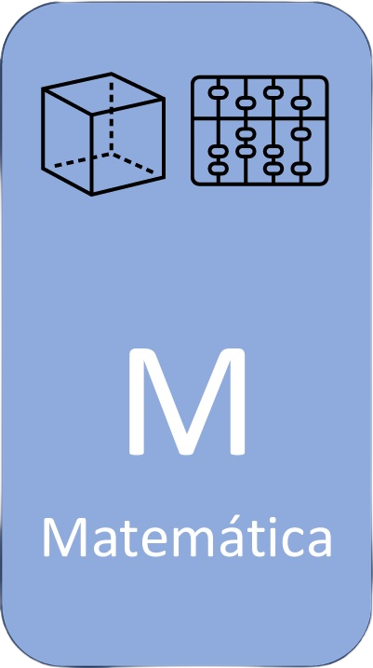
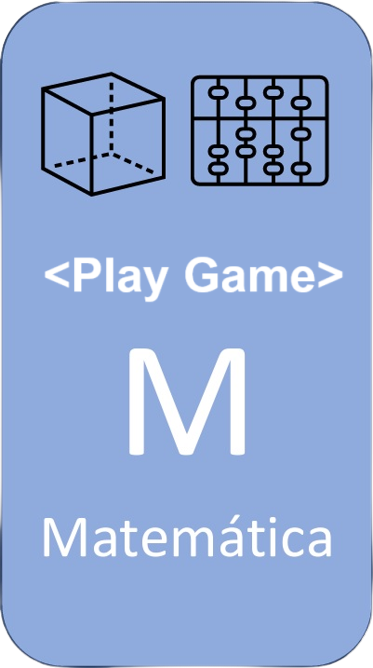
atualização game

Changed region(s): [[0.118, 0.3593, 0.9142, 0.4491]]

diff --git a/game/game.html b/game/game.html
@@ -3,7 +3,7 @@
   <head>
     <meta charset="utf-8">
     <meta http-equiv="X-UA-Compatible" content="IE=edge">
-    <title>Aulas || Nós multímidia</title>
+    <title>Game || Nós multímidia</title>
     <meta name="viewport" content="width=device-width, initial-scale=1">
     <link rel="stylesheet" href="game.css">
     <link rel="stylesheet" href="../menu.css">
@@ -54,11 +54,84 @@
         <h1>Universidade Federal do ABC</h1>
 
         <div class="holder">
-            <div class="grow_1 basis_auto"><img src = "game_pic/s_steam.png"alt = "s_steam"></div>
-            <div class="grow_1 basis_auto"><img src = "game_pic/t_steam.png"alt = "t_steam"></div>
-            <div class="grow_1 basis_auto"><img src = "game_pic/e_steam.png"alt = "e_steam"></div>
-            <div class="grow_1 basis_auto"><img src = "game_pic/a_steam.png"alt = "a_steam"></div>
-            <div class="grow_1 basis_auto"><a href="jogo.html"><img src = "game_pic/m_steam.png"alt = "m_steam"></a></div>
+            <div class="grow_1 basis_auto"><a href=" "><img src = "game_pic/s_steam.png"alt = "s_steam"></a></div>
+            <div class="grow_1 basis_auto"><a href=" "><img src = "game_pic/t_steam.png"alt = "t_steam"></a></div>
+            <div class="grow_1 basis_auto"><a href=" "><img src = "game_pic/e_steam.png"alt = "e_steam"></a></div>
+            <div class="grow_1 basis_auto"><a href=" "><img src = "game_pic/a_steam.png"alt = "a_steam"></a></div>
+            <div class="grow_1 basis_auto"><a href="jogo.html" target="_blank"><img src = "game_pic/m_steam.png"alt = "m_steam"></a></div>
+        </div>
+
+        <div class="text">
+            <h2><span style="color: rgb(32, 163, 3);">Algumas competências específicas de Ciências da Natureza para o Ensino Fundamental</span></h2>
+            <p align="justify">
+                &nbsp;&nbsp;&nbsp; Analisar, compreender e explicar características, fenômenos e processos relativos ao mundo natural, social e tecnológico (incluindo o digital), como também as relações que se estabelecem entre eles, exercitando a curiosidade para fazer perguntas, buscar respostas e criar soluções (inclusive tecnológicas) com base nos conhecimentos das Ciências da Natureza.
+            </p>
+            <p align="justify">
+                &nbsp;&nbsp;&nbsp;Avaliar aplicações e implicações políticas, socioambientais e culturais da ciência e de suas tecnologias para propor alternativas aos desafios do mundo contemporâneo, incluindo aqueles relativos ao mundo do trabalho.
+            </p>
+            <p align="justify">
+                &nbsp;&nbsp;&nbsp;Construir argumentos com base em dados, evidências e informações confiáveis e negociar e defender ideias e pontos de vista que promovam a consciência socioambiental e o respeito a si próprio e ao outro, acolhendo e valorizando a diversidade de indivíduos e de grupos sociais, sem preconceitos de qualquer natureza.
+            </p>
+
+            <br>
+            <h2><span style="color: rgb(32, 163, 3);">Competências específicas na área de Ciências da Natureza no Ensino Médio</span></h2>
+            <p align="justify">
+                &nbsp;&nbsp;&nbsp; Analisar fenômenos naturais e processos tecnológicos, com base nas interações e relações entre matéria e energia, para propor ações individuais e coletivas que aperfeiçoem processos produtivos, minimizem impactos socioambientais e melhorem as condições de vida em âmbito local, regional e global.
+            </p>
+            <p align="justify">
+                &nbsp;&nbsp;&nbsp; Analisar e utilizar interpretações sobre a dinâmica da Vida, da Terra e do Cosmos para elaborar argumentos, realizar previsões sobre o funcionamento e a evolução dos seres vivos e do Universo, e fundamentar e defender decisões éticas e responsáveis.
+            </p>
+            <p align="justify">
+                &nbsp;&nbsp;&nbsp; Investigar situações-problema e avaliar aplicações do conhecimento científico e tecnológico e suas implicações no mundo, utilizando procedimentos e linguagens próprios das Ciências da Natureza, para propor soluções que considerem demandas locais, regionais e/ou globais, e comunicar suas descobertas e conclusões a públicos variados, em diversos contextos e por meio de diferentes mídias e tecnologias digitais de informação e comunicação (TDIC).
+            </p>
+
+            <br>
+            <h2><span style="color: rgb(219, 18, 238);">Algumas competências específicas de Artes para o Ensino Fundamental</span></h2>
+            <p align="justify">
+                &nbsp;&nbsp;&nbsp; Compreender as relações entre as linguagens da Arte e suas práticas integradas, inclusive aquelas possibilitadas pelo uso das novas tecnologias de informação e comunicação, pelo cinema e pelo audiovisual, nas condições particulares de produção, na prática de cada linguagem e nas suas articulações.
+            </p>
+            <p align="justify">
+                &nbsp;&nbsp;&nbsp; Experienciar a ludicidade, a percepção, a expressividade e a imaginação, ressignificando espaços da escola e de fora dela no âmbito da Arte.
+            </p>
+            <p align="justify">
+                &nbsp;&nbsp;&nbsp; Analisar e valorizar o patrimônio artístico nacional e internacional, material e imaterial, com suas histórias e diferentes visões de mundo.
+            </p>
+
+            <br>
+            <h2><span style="color: rgb(219, 18, 238);">Algumas competências específicas com Artes para o Ensino Médio</span></h2>
+            <p align="justify">
+                &nbsp;&nbsp;&nbsp; Apreciar esteticamente as mais diversas produções artísticas e culturais, considerando suas características locais, regionais e globais, e mobilizar seus conhecimentos sobre as linguagens artísticas para dar significado e (re)construir produções autorais individuais e coletivas, exercendo protagonismo de maneira crítica e criativa, com respeito à diversidade de saberes, identidades e culturas.
+            </p>
+
+            <br>
+            <h2><span style="color: rgb(132, 212, 255);">Algumas competências específicas de Matemática para o Ensino Fundamental</span></h2>
+            <p align="justify">
+                &nbsp;&nbsp;&nbsp; Desenvolver o raciocínio lógico, o espírito de investigação e a capacidade de produzir argumentos convincentes, recorrendo aos conhecimentos matemáticos para compreender e atuar no mundo.
+            </p>
+            <p align="justify">
+                &nbsp;&nbsp;&nbsp; Fazer observações sistemáticas de aspectos quantitativos e qualitativos presentes nas práticas sociais e culturais, de modo a investigar, organizar, representar e comunicar informações relevantes, para interpretá-las e avaliá-las crítica e eticamente, produzindo argumentos convincentes.
+            </p>
+            <p align="justify">
+                &nbsp;&nbsp;&nbsp; Utilizar processos e ferramentas matemáticas, inclusive tecnologias digitais disponíveis, para modelar e resolver problemas cotidianos, sociais e de outras áreas de conhecimento, validando estratégias e resultados.
+            </p>
+            <p align="justify">
+                &nbsp;&nbsp;&nbsp; Enfrentar situações-problema em múltiplos contextos, incluindo-se situações imaginadas, não diretamente relacionadas com o aspecto prático-utilitário, expressar suas respostas e sintetizar conclusões, utilizando diferentes registros e linguagens (gráficos, tabelas, esquemas, além de texto escrito na língua materna e outras linguagens para descrever algoritmos, como fluxogramas, e dados).
+            </p>
+
+            <br>
+            <h2><span style="color: rgb(132, 212, 255);">Algumas competências específicas de Matemática para o Ensino Médio</span></h2>
+            <p align="justify">
+                &nbsp;&nbsp;&nbsp; Propor ou participar de ações para investigar desafios do mundo contemporâneo e tomar decisões éticas e socialmente responsáveis, com base na análise de problemas sociais, como os voltados a situações de saúde, sustentabilidade, das implicações da tecnologia no mundo do trabalho, entre outros, mobilizando e articulando conceitos, procedimentos e linguagens próprios da Matemática.
+            </p>
+            <p align="justify">
+                &nbsp;&nbsp;&nbsp; Utilizar estratégias, conceitos, definições e procedimentos matemáticos para interpretar, construir modelos e resolver problemas em diversos contextos, analisando a plausibilidade dos resultados e a adequação das soluções propostas, de modo a construir argumentação consistente.
+            </p>
+            <p align="justify">
+                &nbsp;&nbsp;&nbsp; Compreender e utilizar, com flexibilidade e precisão, diferentes registros de representação matemáticos (algébrico, geométrico, estatístico, computacional etc.), na busca de solução e comunicação de resultados de problemas.
+            </p>
+
+            <br>
+            <h3>Fonte: <a href="http://basenacionalcomum.mec.gov.br/>">BNCC</a></h3>
         </div>
 
     </div>

diff --git a/game/game.css b/game/game.css
@@ -71,7 +71,7 @@ body{
 }
 
 .holder div {     
-    /*margin: 8px 4px;*/
+    margin: auto;
     height: auto;
     width: auto;
     font-size: 1em;
@@ -88,11 +88,59 @@ img{
     width: auto;
 }
 
-
 h1 {
-    font-family: "Arial", cursive;
+    font-family: "Dancing Script", cursive;
     text-align: center;
     font-size: 64px;
     color: #fff;
     margin: 0 0 50px;
+}
+
+h2{
+    text-align: center;
+}
+
+h3{
+    text-align: right;
+    font-size: 15px;
+}
+
+.text {
+    margin-top: 50px;
+    font-family: sans-serif;
+    color: #fff;
+    font-size: 20px;
+    box-shadow: 15px 15px 25px 0px #cacaca;
+    padding: 10px;
+    border-radius: 20px;
+    height: auto;
+}
+
+.text a{
+    text-decoration: none;
+}
+
+.holder img{
+    display: block;
+    border-radius: 5%;
+    --s: 250px;   /* the size of the image */
+    --b: 15px;     /* the border thickness*/
+    --g: 1px;    /* the gap */
+
+    width: var(--s);
+    aspect-ratio: 1;
+    object-fit: cover;
+    object-position: 0 0%;
+    outline: calc(var(--s)/2) solid #0000;
+    outline-offset: calc(var(--s)/-2);
+    transition: .3s;
+    overflow: hidden;
+    transition: all 0.5s ease-in-out;
+    filter: grayscale(70%);
+
+    &:hover {
+        outline: var(--b) solid #ffffff;
+        outline-offset: var(--g);
+        filter: grayscale(0%);
+    }
 }

diff --git a/game/jogo.html b/game/jogo.html
@@ -3,7 +3,7 @@
   <head>
     <meta charset="utf-8">
     <meta http-equiv="X-UA-Compatible" content="IE=edge">
-    <title>Aulas || Nós multímidia</title>
+    <title>Jogo || Nós multímidia</title>
     <meta name="viewport" content="width=device-width, initial-scale=1">
     <link rel="stylesheet" href="game.css">
     <link rel="stylesheet" href="../menu.css">
